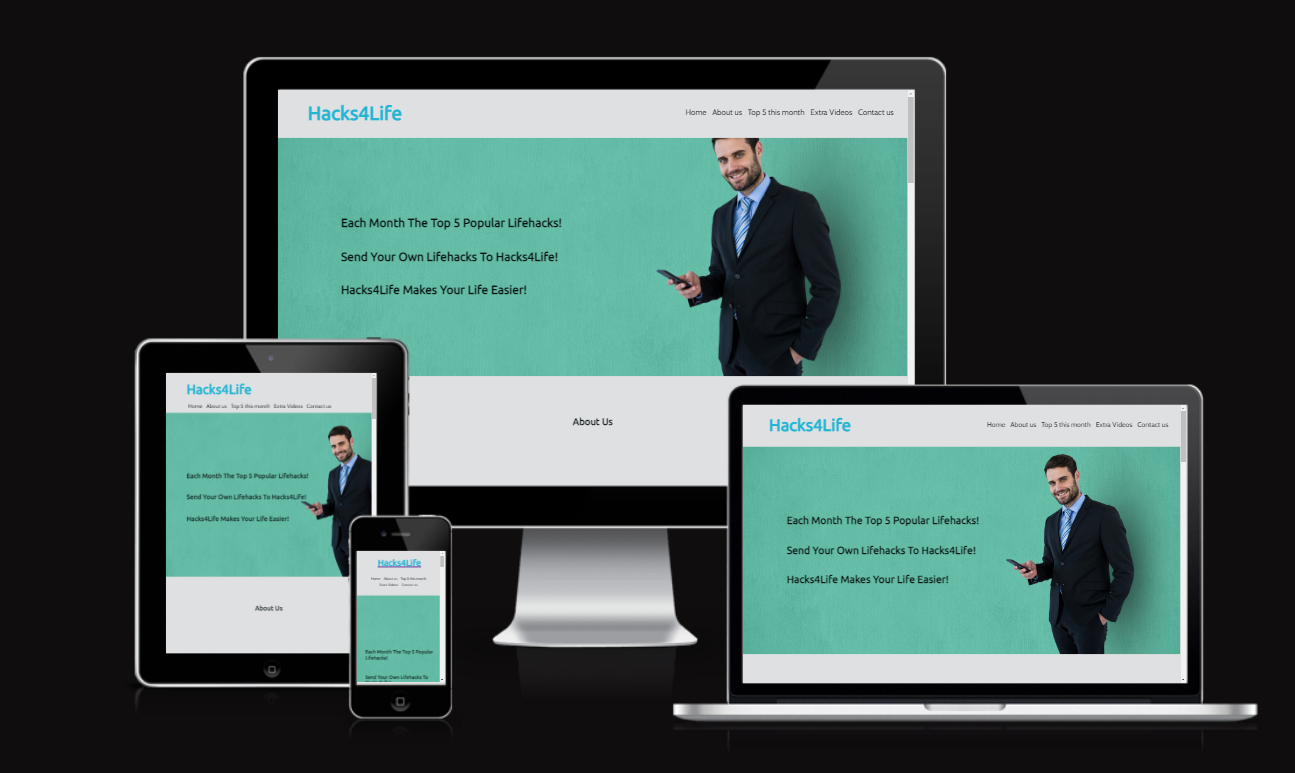
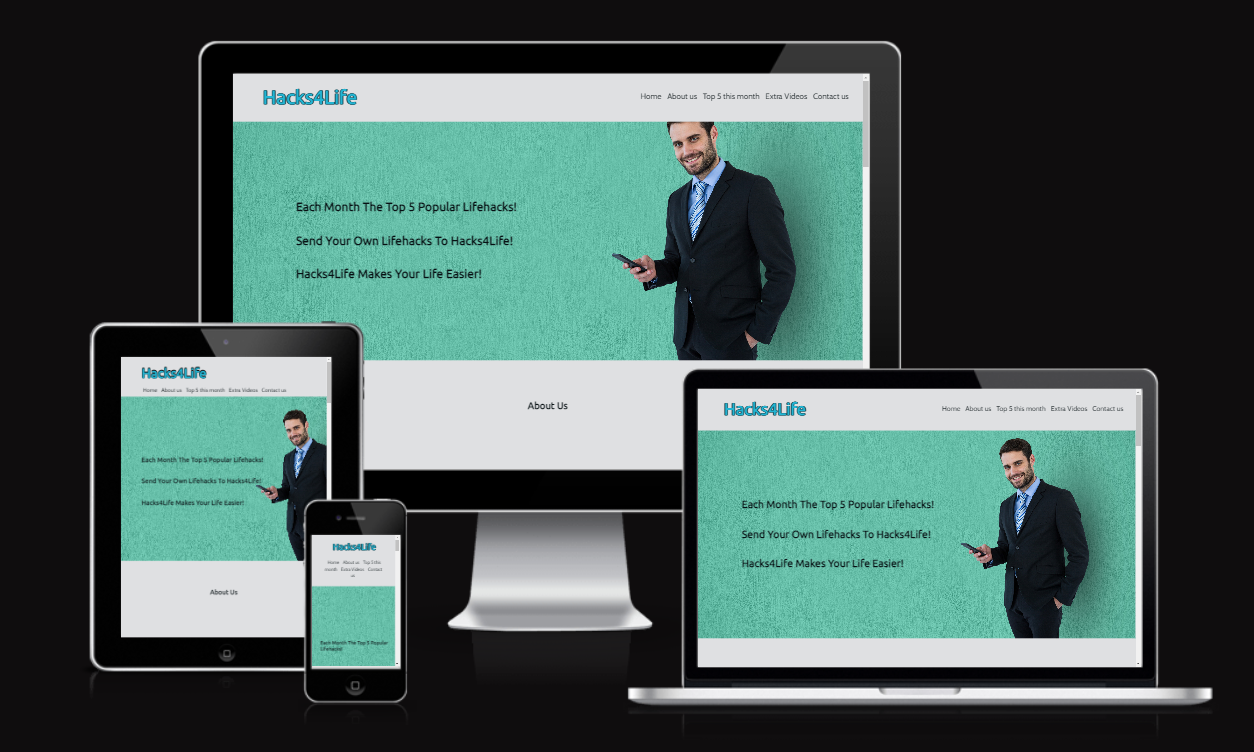
Changed fontsize for slogan for width smaller than 400 px

Changed region(s): [[0.0622, 0.0306, 0.9641, 0.9481], [0.4043, 0.5199, 0.4665, 0.5505]]

diff --git a/assets/css/style.css b/assets/css/style.css
@@ -451,7 +451,7 @@ footer {
         text-decoration: none;}
 
     #slogan {
-        font-size: 75%;
+        font-size: 60%;
     }
 
     #about-us {
